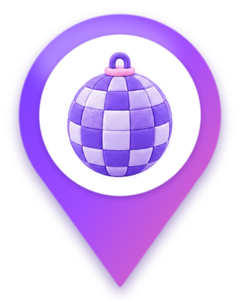
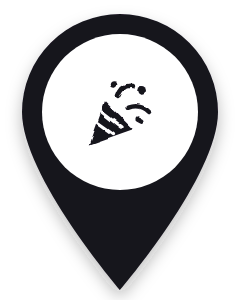
Новые иконки везде: метки на карте (ч/б капля с иконкой), запасная иконка интересов и сторис — без старых 3D
Claude-Session: https://claude.ai/code/session_013QFP65mVRgYiznxHFkn3DH

diff --git a/app/api/events/[id]/story.png/route.tsx b/app/api/events/[id]/story.png/route.tsx
@@ -414,7 +414,7 @@ async function phoneStoryResponse(e: StoryEvent, ig: boolean, origin: string, tD
   const org = one(e.organizer as unknown as { name: string | null; avatar_url: string | null; birth_date: string | null; gender: string | null } | null);
   const catSlug = one(e.category as unknown as { slug: string } | null)?.slug ?? null;
   const ttSlug = one(e.training_type as unknown as { slug: string } | null)?.slug ?? null;
-  const iconPath = e.is_business ? CATEGORY_ICON.business : catSlug === "training" ? trainingIcon(ttSlug) : catSlug === "custom" ? "/brand/cat3d/i_games.webp" : catSlug ? CATEGORY_ICON[catSlug] : null;
+  const iconPath = e.is_business ? CATEGORY_ICON.business : catSlug === "training" ? trainingIcon(ttSlug) : catSlug ? CATEGORY_ICON[catSlug] : null;
   const iconName = iconPath?.match(/\/(i_[a-z]+)\.webp$/)?.[1] ?? null;
 
   const avatarSrc = !e.is_anonymous && !e.is_business && org?.avatar_url && /^https:\/\//.test(org.avatar_url) ? org.avatar_url : null;

diff --git a/lib/data/interests.ts b/lib/data/interests.ts
@@ -6,7 +6,7 @@
  */
 /** Иконки прототипа 2026 (public/brand/pi). */
 const PI: Record<string, string> = { kofe: "kofe", zavtrak: "zavtraki", uzhin: "uzhiny", bar: "bars", pizza: "street", party: "parties", games: "games", cook: "cook", dogs: "dogs", biz: "network", banya: "banya", lang: "lang", run: "run", gym: "sportzal", yoga: "yoga", bike: "bike", hike: "hike", camp: "camp", ski: "ski", swim: "swim", football: "football", tennis: "tennis", box: "box", roller: "roller", travel: "travel", trip: "travel", world: "excursion", photo: "photo", kino: "kino", theatre: "theatre", music: "music", karaoke: "karaoke", guitar: "jam", art: "expo", books: "books", concert: "concert" };
-const I = (n: string) => (PI[n] ? `/brand/pi/${PI[n]}.svg` : `/brand/cat3d/i_${n}.svg`);
+const I = (n: string) => (PI[n] ? `/brand/pi/${PI[n]}.svg` : "/brand/pi/other.svg");
 
 export const INTEREST_GROUPS: { title: string; items: [name: string, icon: string][] }[] = [
   {
